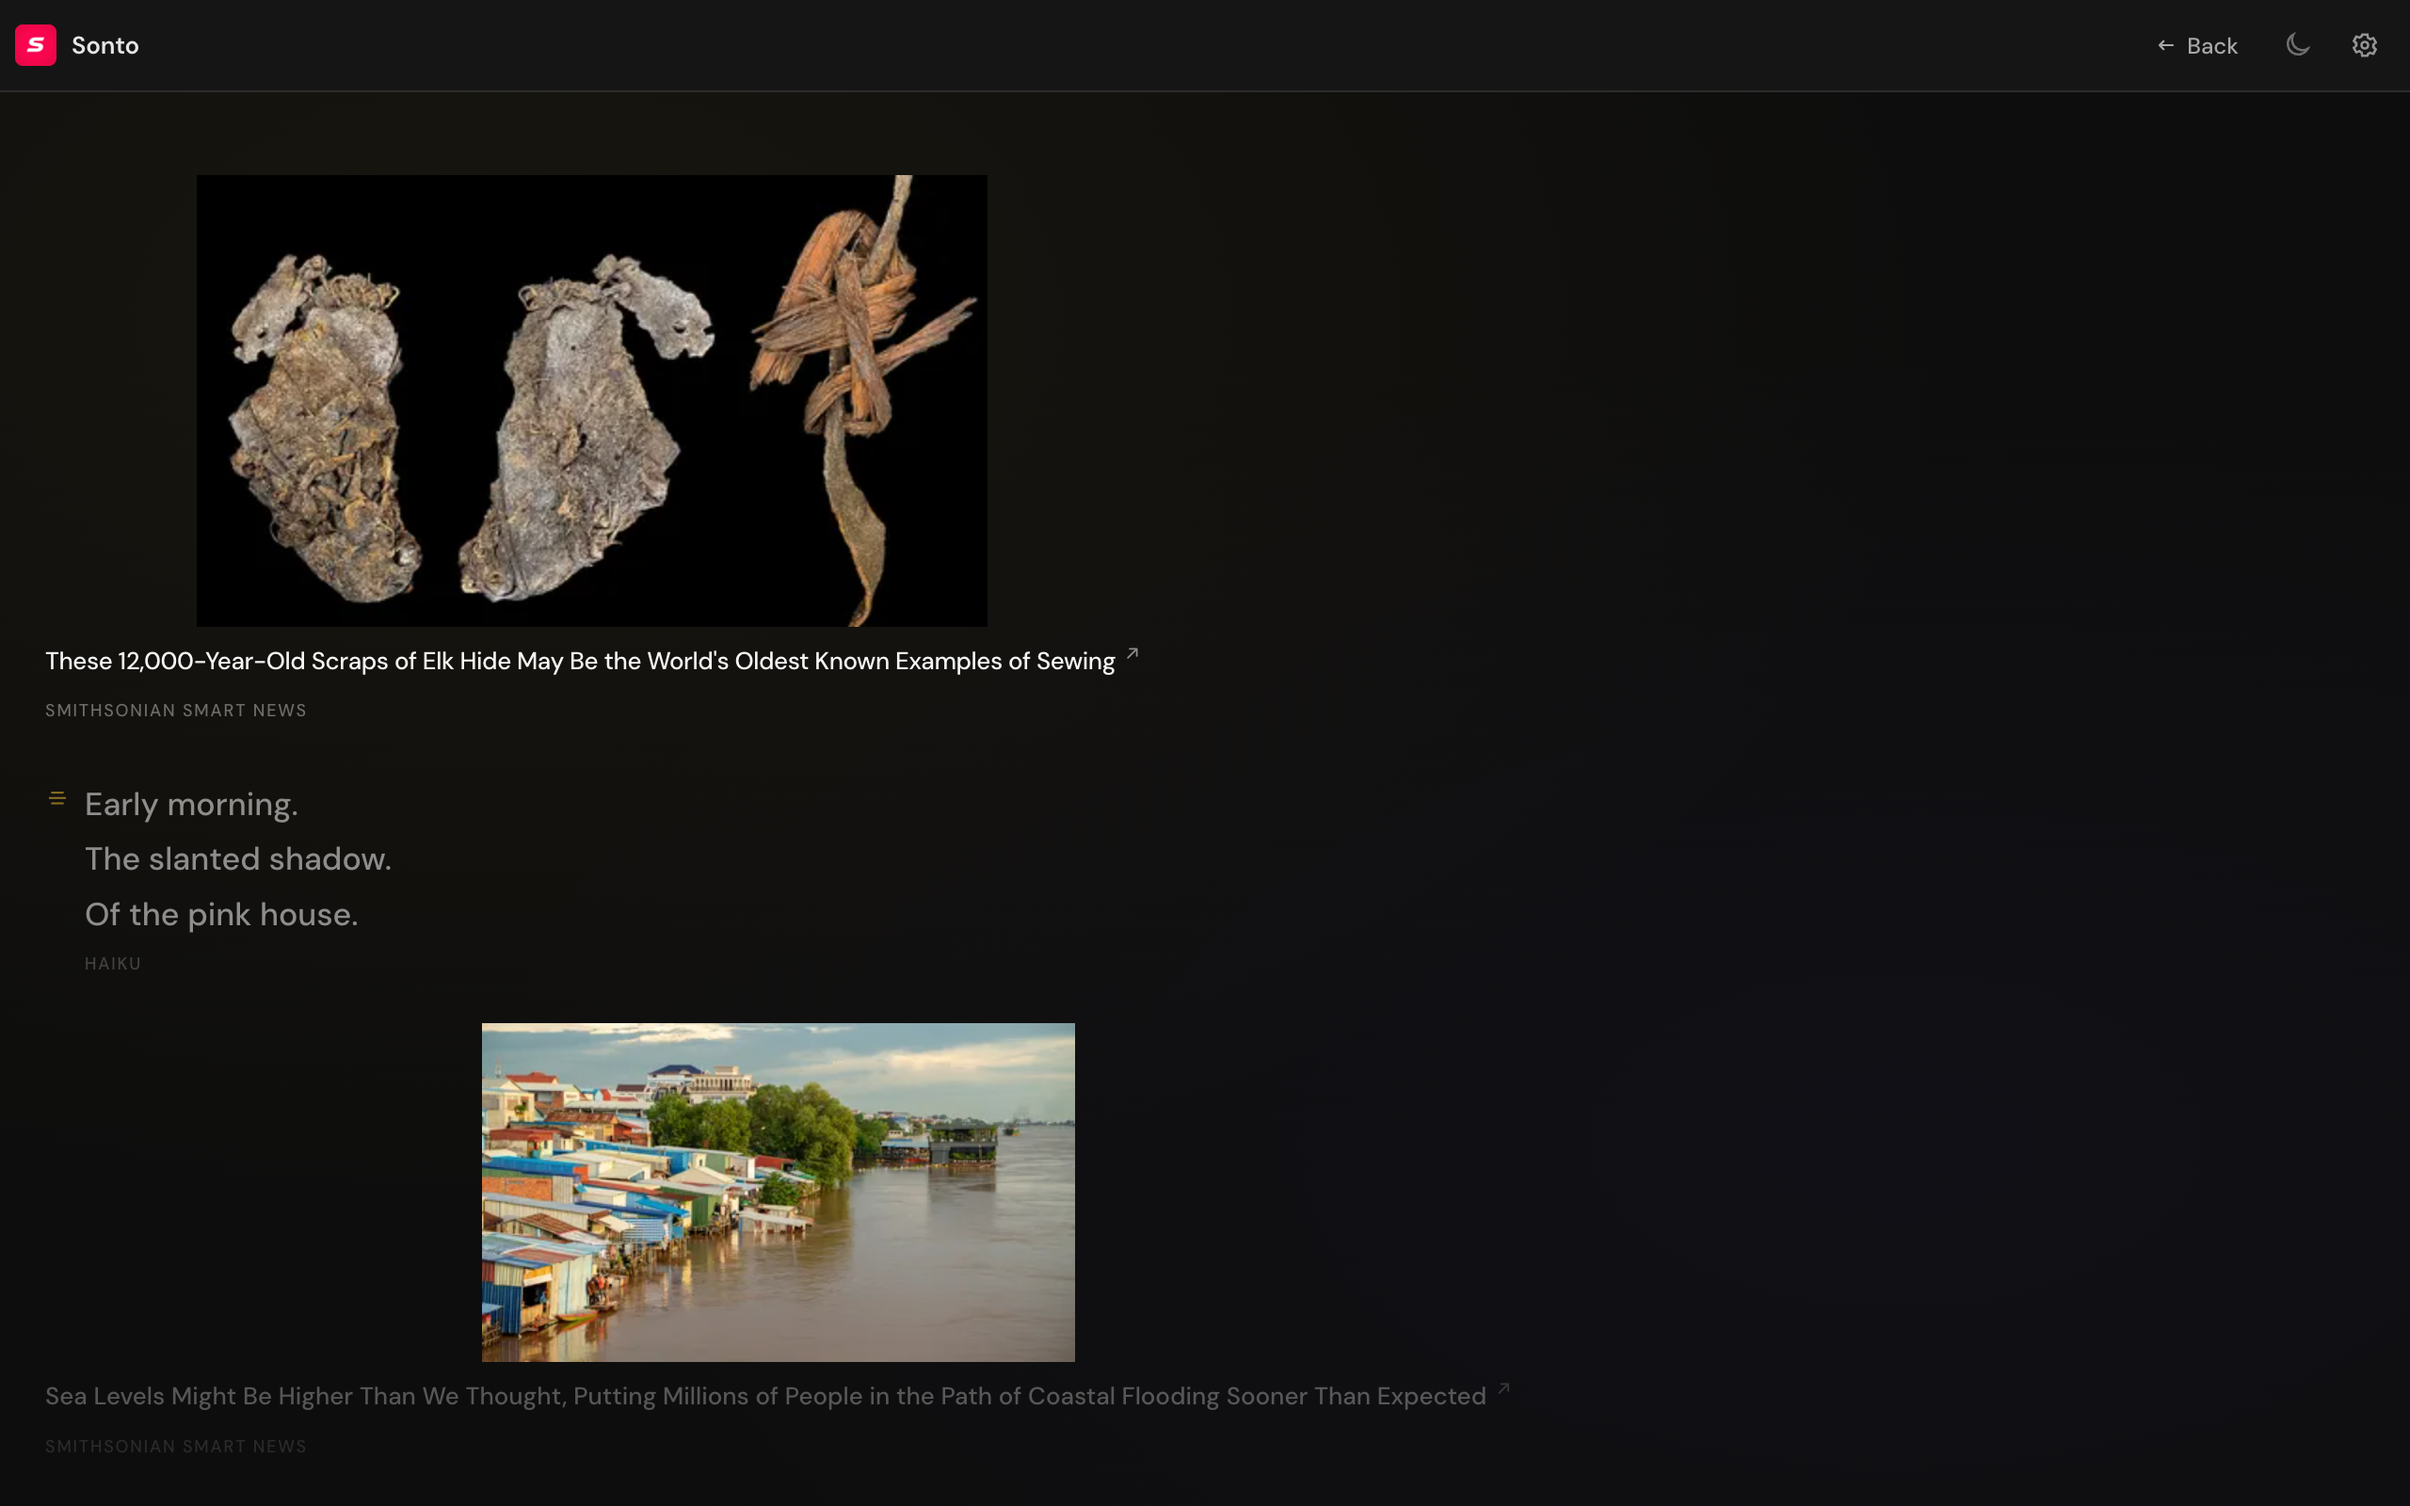
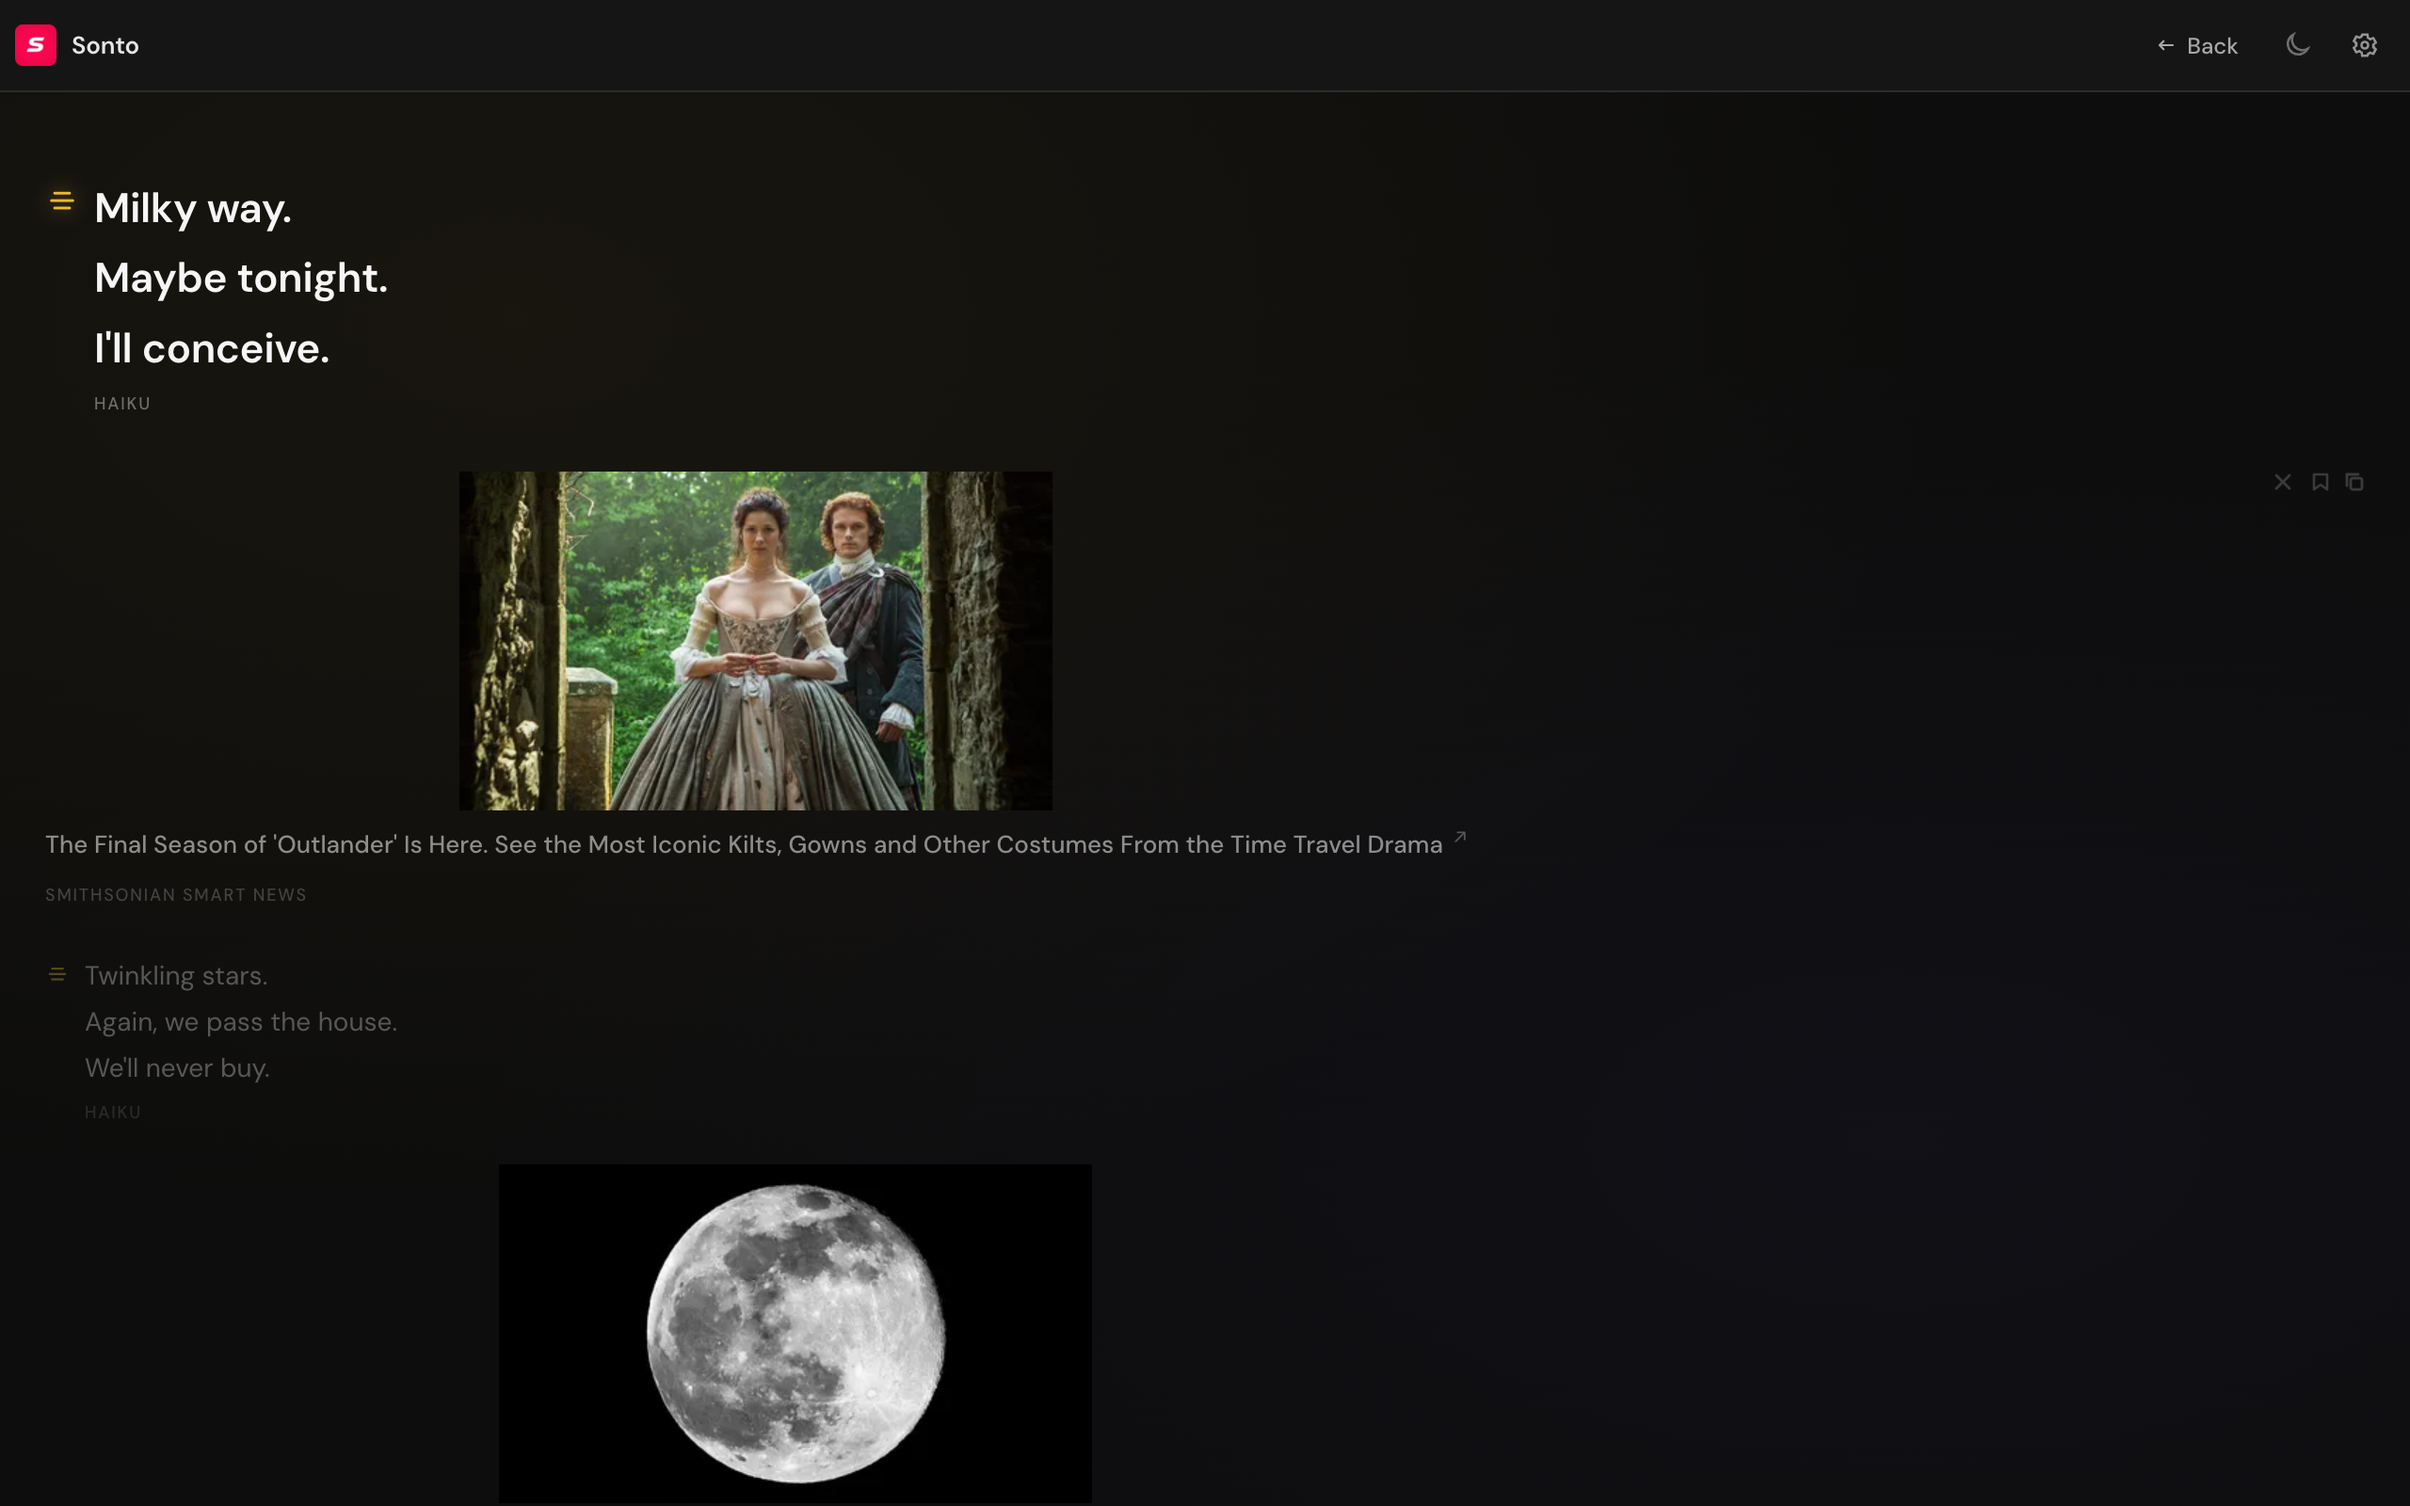
feat: tag filter for clips with clear button
Add clickable tag filter on clip cards. Shows active filter bar
with clear button. Updated screenshots with demo clipboard data.

Changed region(s): [[0.0312, 0.125, 0.4688, 0.5625], [0.0312, 0.6562, 0.5938, 1.0], [0.0312, 0.5312, 0.1562, 0.7188]]

diff --git a/src/sidebar/clipboard-manager.ts b/src/sidebar/clipboard-manager.ts
@@ -149,13 +149,33 @@ export class ClipboardManager {
   private isLoading = false;
   private selectedIndex = -1;
   private activeDomain = '';
+  private activeTagFilter: string | null = null;
   private allTags: string[] = [];
   private inputAvailable = false;
+  private tagFilterEl: HTMLElement;
+  private tagFilterLabelEl: HTMLElement;
+  private tagFilterClearEl: HTMLButtonElement;
 
   constructor(listEl: HTMLElement) {
     this.listEl = listEl;
+    this.tagFilterEl = document.querySelector('#tag-filter')!;
+    this.tagFilterLabelEl = document.querySelector('#tag-filter-label')!;
+    this.tagFilterClearEl = document.querySelector('#tag-filter-clear')!;
     void this.checkInputAvailability();
     this.setupTabChangeListener();
+    this.setupTagFilterClear();
+  }
+
+  private setupTagFilterClear(): void {
+    this.tagFilterClearEl.addEventListener('click', () => {
+      this.clearTagFilter();
+    });
+  }
+
+  private clearTagFilter(): void {
+    this.activeTagFilter = null;
+    this.tagFilterEl.classList.add('hidden');
+    void this.load(this.activeDomain);
   }
 
   private setupTabChangeListener(): void {
@@ -215,6 +235,8 @@ export class ClipboardManager {
       await this.load(this.activeDomain);
       return;
     }
+    this.activeTagFilter = null;
+    this.tagFilterEl.classList.add('hidden');
     this.setLoading(true);
     try {
       const response = await chrome.runtime.sendMessage({
@@ -232,6 +254,9 @@ export class ClipboardManager {
   }
 
   async filterByTag(tag: string): Promise<void> {
+    this.activeTagFilter = tag;
+    this.tagFilterLabelEl.textContent = tag;
+    this.tagFilterEl.classList.remove('hidden');
     await this.load(this.activeDomain, tag);
   }
 

diff --git a/src/sidebar/sidebar.css b/src/sidebar/sidebar.css
@@ -1196,6 +1196,48 @@ html, body {
   overflow: hidden;
 }
 
+.tag-filter {
+  display: flex;
+  align-items: center;
+  gap: 6px;
+  padding: 6px 12px;
+  background: var(--c-surface);
+  border-bottom: 1px solid var(--c-border);
+}
+
+.tag-filter-label {
+  font-size: 12px;
+  color: var(--c-text-2);
+  background: var(--c-border-hi);
+  padding: 3px 8px;
+  border-radius: 4px;
+}
+
+.tag-filter-clear {
+  display: flex;
+  align-items: center;
+  justify-content: center;
+  width: 20px;
+  height: 20px;
+  padding: 0;
+  border: none;
+  background: transparent;
+  color: var(--c-text-3);
+  cursor: pointer;
+  border-radius: 4px;
+  transition: background 0.15s, color 0.15s;
+}
+
+.tag-filter-clear:hover {
+  background: var(--c-border-hi);
+  color: var(--c-text);
+}
+
+.tag-filter-clear svg {
+  width: 14px;
+  height: 14px;
+}
+
 .clip-list {
   flex: 1;
   overflow-y: auto;

diff --git a/src/sidebar/sidebar.html b/src/sidebar/sidebar.html
@@ -70,6 +70,14 @@
           </button>
         </div>
 
+        <div id="tag-filter" class="tag-filter hidden">
+          <span class="tag-filter-label" id="tag-filter-label"></span>
+          <button id="tag-filter-clear" class="tag-filter-clear" type="button" aria-label="Clear tag filter">
+            <svg aria-hidden="true" viewBox="0 0 20 20" fill="none" stroke="currentColor" stroke-width="2">
+              <path d="M6 6l8 8M14 6l-8 8"/>
+            </svg>
+          </button>
+        </div>
         <div id="clip-list" class="clip-list"></div>
 
         <div id="add-clip-modal" class="clip-modal hidden">
